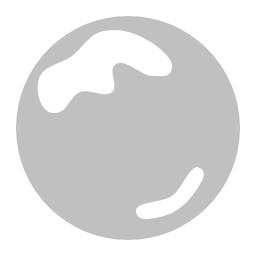
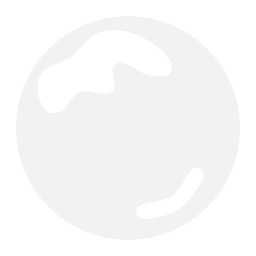
Added basic Level of Detail to droplets and fields.
If the user zooms out beyond a certain point, all droplets and fields are now replaced with plain squares. Colour remains the same as on the defailt LOD, but was altered to provide a better distinction. Don't complain, it's just a suggestion ;).

diff --git a/core/src/de/dfki/bioviz/DrawableSprite.java b/core/src/de/dfki/bioviz/DrawableSprite.java
@@ -20,6 +20,8 @@ public abstract class DrawableSprite implements Drawable {
 	protected Sprite sprite;
 	private HashMap<String, TextureRegion> allTextures = new HashMap<>();
 	public Color color = Color.WHITE.cpy();
+	private HashMap<Float, String> LevelOfDetailTextures = new HashMap<>();
+	private String defaultTextureName;
 	
 	public float x = 0, y = 0, scaleX = 1, scaleY = 1, rotation = 0;
 	
@@ -30,6 +32,7 @@ public abstract class DrawableSprite implements Drawable {
 	 * @param textureFilename the texture to use
 	 */
 	public DrawableSprite(String textureFilename, float sizeX, float sizeY) {
+		defaultTextureName = textureFilename;
 		TextureRegion region = loadTexture(textureFilename);
 		Texture currentTexture = region.getTexture();
 		sprite = new Sprite(region);
@@ -43,6 +46,23 @@ public abstract class DrawableSprite implements Drawable {
 	}
 	
 	public void draw() {
+	
+		// if LOD is set, enable LOD calculation and set
+		// sprite accordingly
+		if (this.LevelOfDetailTextures.size() > 0) {
+			float bestLODFactor = 0;
+			boolean foundLOD = false;
+			for (Float factor : LevelOfDetailTextures.keySet()) {
+				if (factor >= this.scaleX && factor >= bestLODFactor) {
+					bestLODFactor = factor;
+					foundLOD = true;
+				}
+			}
+			if (foundLOD)
+				this.setTexture(LevelOfDetailTextures.get(bestLODFactor));
+			else
+				this.setTexture(defaultTextureName);
+		}
 		this.sprite.setPosition(x-sprite.getWidth()/2f, y-sprite.getHeight()/2f);
 		this.sprite.setScale(scaleX, scaleY);
 		this.sprite.setRotation(rotation);
@@ -73,5 +93,10 @@ public abstract class DrawableSprite implements Drawable {
 			this.loadTexture(textureFilename);
 		}
 		this.sprite.setRegion(this.allTextures.get(textureFilename));
+	}
+	
+	public void addLOD(float scaleFactorMax, String textureFilename) {
+		loadTexture(textureFilename);
+		this.LevelOfDetailTextures.put(scaleFactorMax, textureFilename);
 	}
 }

diff --git a/core/src/de/dfki/bioviz/DrawableField.java b/core/src/de/dfki/bioviz/DrawableField.java
@@ -8,12 +8,13 @@ public class DrawableField extends DrawableSprite {
 	
 	public BiochipField field;
 	
-	static final Color fieldDefaultColor = new Color(0.8f, 0.9f, 1f, 1f);
+	static final Color fieldDefaultColor = new Color(0.5f, 0.5f, 0.75f, 1f);
 	static final Color fieldAdjacentActivationColor = new Color(1f, 0.3f, 0.2f, 1f);
 
 	public DrawableField(BiochipField field) {
 		super("GridMarker.png");
 		this.field = field;
+		super.addLOD(16, "BlackPixel.png");
 	}
 
 	@Override

diff --git a/core/src/de/dfki/bioviz/DrawableDroplet.java b/core/src/de/dfki/bioviz/DrawableDroplet.java
@@ -1,6 +1,7 @@
 package de.dfki.bioviz;
 
 import structures.Droplet;
+import com.badlogic.gdx.graphics.Color;
 
 public class DrawableDroplet extends DrawableSprite {
 	
@@ -9,6 +10,8 @@ public class DrawableDroplet extends DrawableSprite {
 	public DrawableDroplet(Droplet droplet) {
 		super("Droplet.png");
 		this.droplet = droplet;
+		super.addLOD(16, "BlackPixel.png");
+		super.color = new Color(0.75f, 0.85f, 0.9f, 1f);
 	}
 
 	@Override
